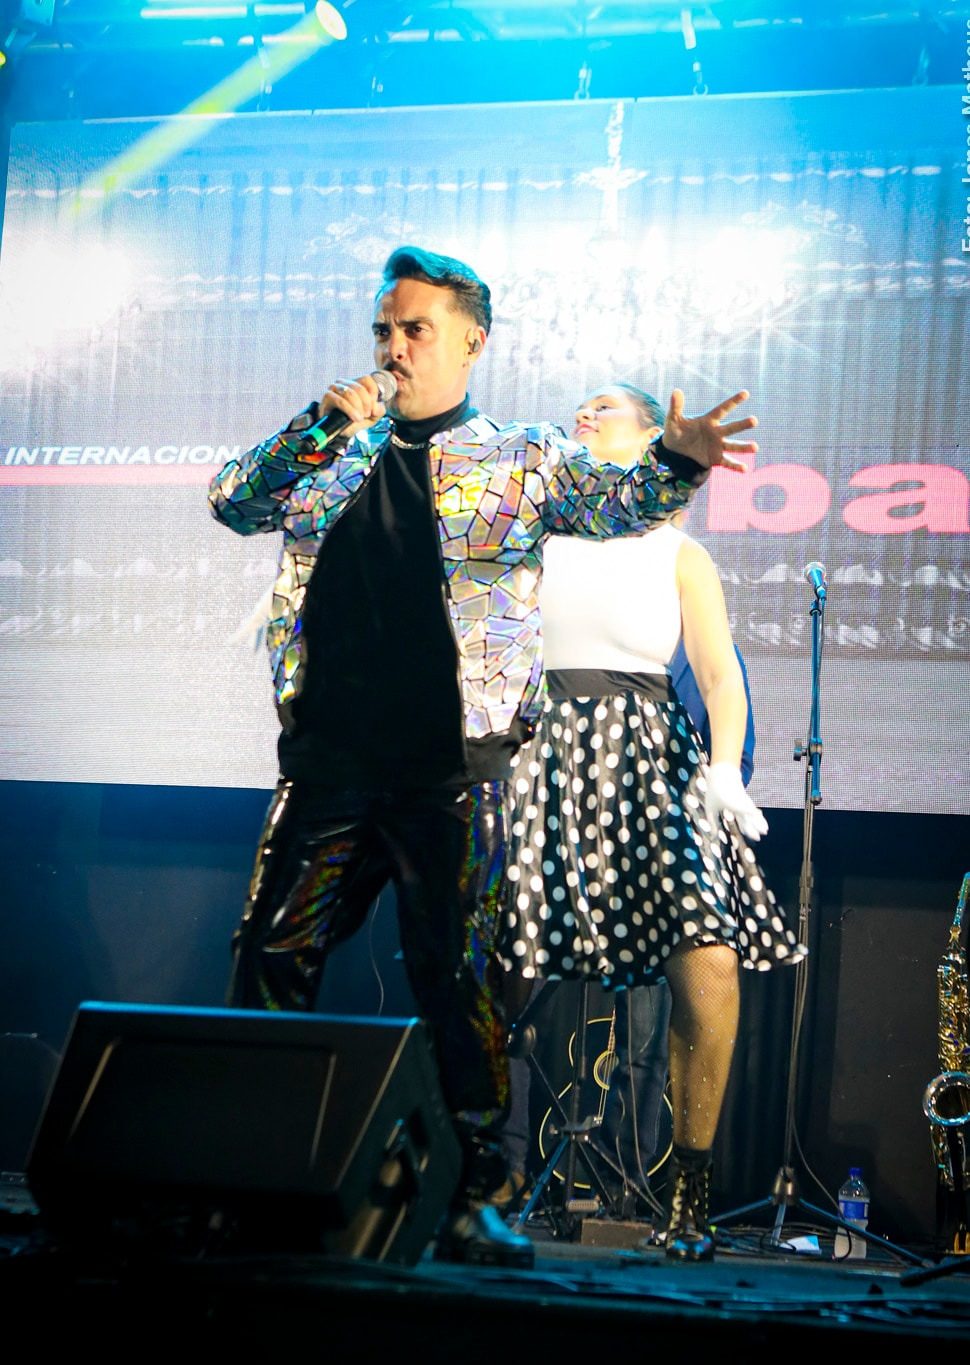
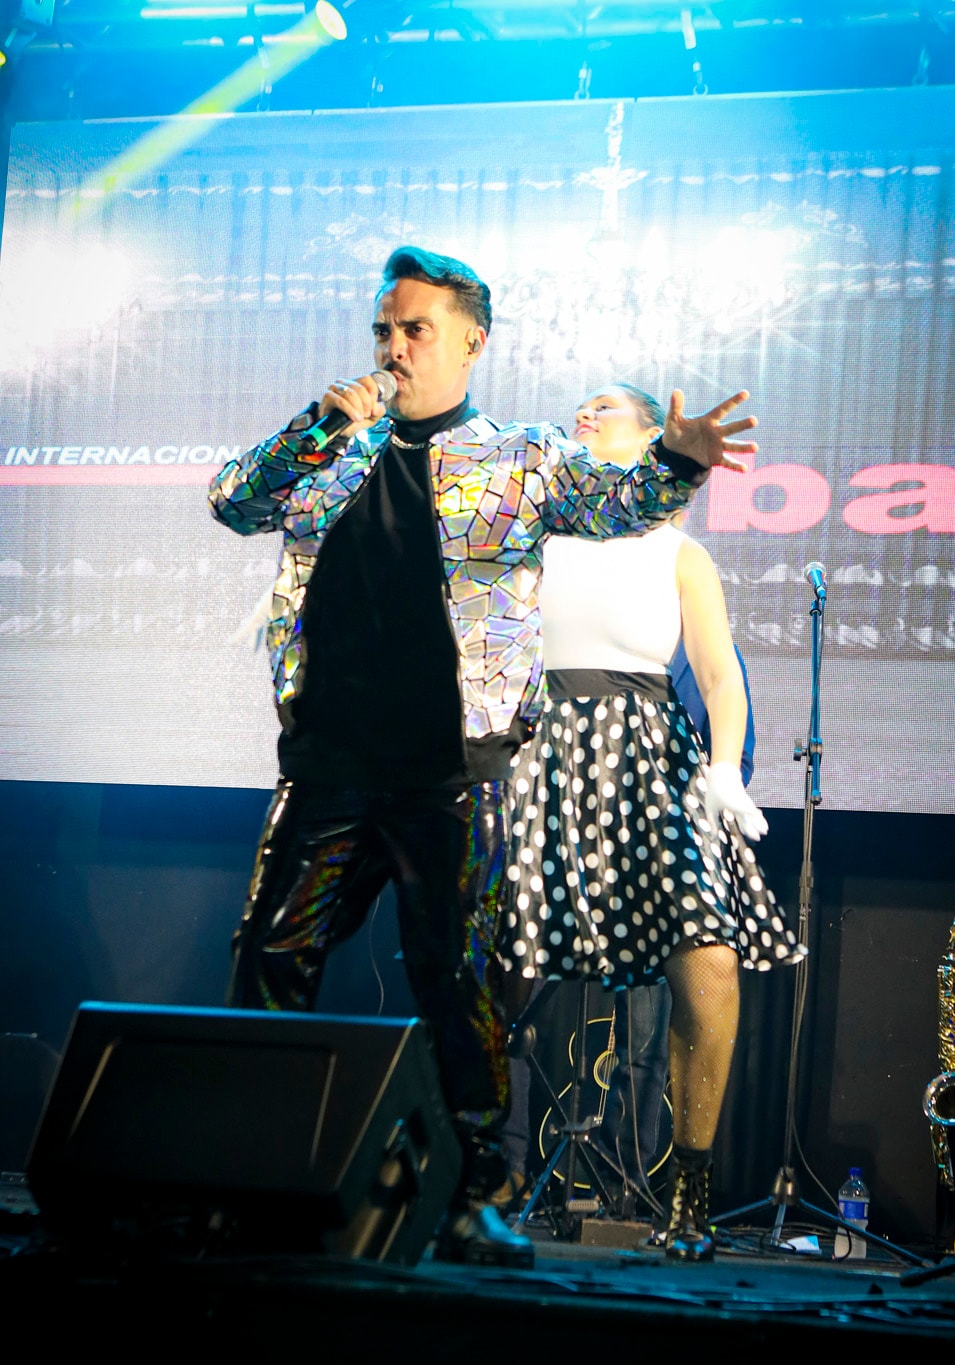
fix(fotos): nada cobre as fotos dos blocos; 15 fotos do Clube Náutico em /palco, sem selo nem crédito cortado
Blocos temáticos da home: a miniatura do figurino e o número do bloco ficavam
por cima da foto de palco e escondiam de 11% a 13% dela. Os dois passam para o
lado do texto, embaixo do quadro; a foto aparece inteira.

/palco ganha as 15 fotos do show no Clube Náutico Araraquara (Jonas Matheus)
que estavam fora do site, distribuídas pelos três atos em fileiras de fotos
inteiras, com o crédito impresso na página. O selo do clube e o crédito
carimbados nos arquivos saem por recorte, medido nos originais: 1465×888 em
paisagem e 955×1365 em retrato. A palco-anos-50, que já estava no site com o
crédito cortado ao meio na borda direita (corte em 970 px), foi refeita.

Regressões:
- media.test fixa o tamanho exato dos 16 arquivos do Náutico (a tolerância de
  2% da proporção não distingue 970 de 955 px);
- o smoke visual passa a reprovar foto coberta por outra e foto que não
  carregou. Antes ele rolava a página sem parar, as imagens sob demanda mais
  abaixo não carregavam e a auditoria as pulava em silêncio: a checagem de
  foto cortada nunca valeu para elas. Agora todas são carregadas antes.

Verificado: typecheck, lint, 197 testes, build, smoke e smoke:motion; o smoke
novo acusa as 6 sobreposições no site publicado e sai limpo neste build.

diff --git a/src/data/media/frames.ts b/src/data/media/frames.ts
@@ -76,6 +76,62 @@ export const stageFrames: StageFrame[] = [
     aspect: '1355/903',
     plate: 2,
   },
+  // Clube Náutico Araraquara (Jonas Matheus): the four voices as the lead of
+  // their own row, then the singers one by one.
+  {
+    id: 'nautico-quatro-vozes',
+    src: images.nauticoQuatroVozes,
+    alt: 'Quatro vocalistas na linha de frente do palco cantando diante do painel de LED',
+    caption: 'Quatro vozes na linha de frente · Cantoras e cantores ao vivo',
+    category: 'vocais',
+    aspect: '1465/888',
+    plate: 3,
+  },
+  {
+    id: 'nautico-voz-feminina',
+    src: images.nauticoVozFeminina,
+    alt: 'Cantora de colete preto cantando ao microfone com a mão erguida diante do painel de LED',
+    caption: 'Voz feminina em primeiro plano · Painel de LED ao fundo',
+    category: 'vocais',
+    aspect: '1465/888',
+    plate: 4,
+  },
+  {
+    id: 'nautico-dois-vocalistas',
+    src: images.nauticoDoisVocalistas,
+    alt: 'Vocalista de jaqueta espelhada e óculos escuros cantando ao microfone, com outro vocalista em primeiro plano',
+    caption: 'Dois vocalistas frente a frente · Energia de palco',
+    category: 'vocais',
+    aspect: '1465/888',
+    plate: 4,
+  },
+  {
+    id: 'nautico-vocalistas-palco',
+    src: images.nauticoVocalistasPalco,
+    alt: 'Vocalista de cabelos longos cantando ao microfone ao lado de vocalista de jaqueta espelhada, sob luz verde',
+    caption: 'Dupla de vocalistas · Frente de palco sob luz verde',
+    category: 'vocais',
+    aspect: '955/1365',
+    plate: 5,
+  },
+  {
+    id: 'nautico-vocal-bandana',
+    src: images.nauticoVocalBandana,
+    alt: 'Vocalista de bandana vermelha e camisa floral cantando ao microfone sob luz verde',
+    caption: 'Rock de bandana · Voz em primeiro plano',
+    category: 'vocais',
+    aspect: '1465/888',
+    plate: 5,
+  },
+  {
+    id: 'nautico-vocal-floral',
+    src: images.nauticoVocalFloral,
+    alt: 'Vocalista de bandana vermelha e casaco floral cantando de braço aberto sob feixes de luz',
+    caption: 'Presença de palco · Clássicos do rock',
+    category: 'vocais',
+    aspect: '955/1365',
+    plate: 5,
+  },
   // ── ATO II · blocos temáticos ──────────────────────────────────────────
   {
     id: 'palco-coracoes',
@@ -119,7 +175,7 @@ export const stageFrames: StageFrame[] = [
     alt: 'Vocalista de jaqueta espelhada e bailarina de saia de poá do bloco anos 50 diante do painel de LED',
     caption: 'Bloco Anos 50 & Retrô · O rock de baile em poá e luvas brancas',
     category: 'blocos',
-    aspect: '970/1365',
+    aspect: '955/1365',
     plate: 2,
   },
   {
@@ -139,6 +195,53 @@ export const stageFrames: StageFrame[] = [
     category: 'blocos',
     aspect: '2560/1707',
     plate: 3,
+  },
+  // Clube Náutico Araraquara (Jonas Matheus): the circus block, then the
+  // dancers on either side of the anos 50 block in full swing.
+  {
+    id: 'nautico-bloco-circo',
+    src: images.nauticoBlocoCirco,
+    alt: 'Vocalista de jaqueta espelhada entre bailarino e bailarina de cartola e casaca vermelha, com fumaça no palco',
+    caption: 'Bloco de circo · Coreografia de cartolas e casacas vermelhas',
+    category: 'blocos',
+    aspect: '1465/888',
+    plate: 4,
+  },
+  {
+    id: 'nautico-circo-frente',
+    src: images.nauticoCircoFrente,
+    alt: 'Vocalista de jaqueta espelhada cantando à frente de bailarinos de cartola e casaca vermelha diante do painel de LED',
+    caption: 'Bloco de circo · Vocal e corpo de baile na frente do palco',
+    category: 'blocos',
+    aspect: '1465/888',
+    plate: 4,
+  },
+  {
+    id: 'nautico-bailarina-circo',
+    src: images.nauticoBailarinaCirco,
+    alt: 'Bailarina de cartola e casaca vermelha sorrindo em cena diante do painel de LED',
+    caption: 'Bailarina do bloco de circo · Cartola e casaca vermelha',
+    category: 'blocos',
+    aspect: '955/1365',
+    plate: 5,
+  },
+  {
+    id: 'nautico-bloco-anos-50',
+    src: images.nauticoBlocoAnos50,
+    alt: 'Vocalista de jaqueta espelhada entre duas bailarinas de saia de poá rodando, com a banda e o painel de LED ao fundo',
+    caption: 'Bloco Anos 50 em cena · Saias de poá em movimento',
+    category: 'blocos',
+    aspect: '1465/888',
+    plate: 5,
+  },
+  {
+    id: 'nautico-bailarino-circo',
+    src: images.nauticoBailarinoCirco,
+    alt: 'Bailarino de cartola e casaca vermelha com as mãos na cintura no palco',
+    caption: 'Bailarino do bloco de circo · Figurino de apresentador',
+    category: 'blocos',
+    aspect: '955/1365',
+    plate: 5,
   },
   // ── ATO III · luz e efeitos ────────────────────────────────────────────
   {
@@ -176,6 +279,44 @@ export const stageFrames: StageFrame[] = [
     category: 'efeitos',
     aspect: '1200/800',
     plate: 2,
+  },
+  // Clube Náutico Araraquara (Jonas Matheus): the panel and the rig from the
+  // floor, then the drums and the keys under the beams.
+  {
+    id: 'nautico-banda-triangulo',
+    src: images.nauticoBandaTriangulo,
+    alt: 'Banda no palco diante do painel de LED com triângulos de luz, vocalistas à frente e teclados e bateria ao fundo',
+    caption: 'Painel de LED em cena · Banda completa e fumaça no palco',
+    category: 'efeitos',
+    aspect: '1465/888',
+    plate: 3,
+  },
+  {
+    id: 'nautico-palco-luzes',
+    src: images.nauticoPalcoLuzes,
+    alt: 'Palco visto da pista com treliças, moving heads em feixes rosa e roxos, painel de LED e a banda em cena',
+    caption: 'Treliças, moving heads e painel de LED · Estrutura completa em operação',
+    category: 'efeitos',
+    aspect: '1465/888',
+    plate: 3,
+  },
+  {
+    id: 'nautico-baterista',
+    src: images.nauticoBaterista,
+    alt: 'Baterista de chapéu e óculos tocando entre os pratos, com o painel de LED ao fundo',
+    caption: 'Bateria ao vivo · O pulso do baile',
+    category: 'efeitos',
+    aspect: '1465/888',
+    plate: 4,
+  },
+  {
+    id: 'nautico-teclado-feixes',
+    src: images.nauticoTecladoFeixes,
+    alt: 'Vocalista de bandana vermelha tocando teclado sob feixes de luz azul e treliças',
+    caption: 'Teclado sob feixes azuis · Iluminação robotizada',
+    category: 'efeitos',
+    aspect: '955/1365',
+    plate: 4,
   },
 ];
 

diff --git a/src/data/blur.ts b/src/data/blur.ts
@@ -57,8 +57,38 @@ export const blurMap: Record<string, string> = {
[1 lines of base64/hex data omitted]
   "/images/nautico-araraquara.jpeg":
[1 lines of base64/hex data omitted]
+  "/images/nautico-bailarina-circo.jpeg":
[1 lines of base64/hex data omitted]
+  "/images/nautico-bailarino-circo.jpeg":
[1 lines of base64/hex data omitted]
+  "/images/nautico-banda-triangulo.jpeg":
[1 lines of base64/hex data omitted]
+  "/images/nautico-baterista.jpeg":
[1 lines of base64/hex data omitted]
+  "/images/nautico-bloco-anos-50.jpeg":
[1 lines of base64/hex data omitted]
+  "/images/nautico-bloco-circo.jpeg":
[1 lines of base64/hex data omitted]
+  "/images/nautico-circo-frente.jpeg":
[1 lines of base64/hex data omitted]
+  "/images/nautico-dois-vocalistas.jpeg":
[1 lines of base64/hex data omitted]
+  "/images/nautico-palco-luzes.jpeg":
[1 lines of base64/hex data omitted]
+  "/images/nautico-quatro-vozes.jpeg":
[1 lines of base64/hex data omitted]
+  "/images/nautico-teclado-feixes.jpeg":
[1 lines of base64/hex data omitted]
+  "/images/nautico-vocal-bandana.jpeg":
[1 lines of base64/hex data omitted]
+  "/images/nautico-vocal-floral.jpeg":
[1 lines of base64/hex data omitted]
+  "/images/nautico-vocalistas-palco.jpeg":
[1 lines of base64/hex data omitted]
+  "/images/nautico-voz-feminina.jpeg":
[1 lines of base64/hex data omitted]
   "/images/palco-anos-50.jpeg":
[2 lines of base64/hex data omitted]
   "/images/palco-anos-70.jpeg":
[1 lines of base64/hex data omitted]
   "/images/palco-asas-led.jpeg":

diff --git a/src/components/home/Blocos.tsx b/src/components/home/Blocos.tsx
@@ -1,7 +1,8 @@
 // src/components/home/Blocos.tsx
 // Block 3 — the thematic blocks as panels on the wall: each photograph
-// resolves out of the dot matrix as it scrolls into view, the wardrobe shot
-// tucked over its corner. On small screens cards stack in a responsive grid so
+// resolves out of the dot matrix as it scrolls into view. The wardrobe shot
+// and the block's number sit beside the text, under the frame: nothing is
+// laid over a photograph. On small screens cards stack in a responsive grid so
 // every photograph stays whole and nothing is cut off horizontally; from md:
 // they sit in a horizontal scroll-snap row with a LED position indicator.
 import type { CSSProperties } from 'react';
@@ -45,28 +46,21 @@ export function Blocos() {
             className="rise flex w-full flex-col gap-5 md:w-auto"
             style={{ '--ratio': ratioOf(bloco.photo.aspect).toFixed(4) } as CSSProperties}
           >
-            <div className="relative">
-              <LedPhoto
-                photo={bloco.photo}
-                sizes="(min-width: 768px) 24rem, 92vw"
-                cols={72}
-              />
+            <LedPhoto photo={bloco.photo} sizes="(min-width: 768px) 24rem, 92vw" cols={72} />
+            <div className="flex items-start gap-4">
+              <div className="min-w-0 flex-1">
+                <span aria-hidden className="label-caps text-led-text">
+                  {String(i + 1).padStart(2, '0')}
+                </span>
+                <h3 className="mt-1 text-2xl font-semibold tracking-tight text-ink">{bloco.title}</h3>
+                <p className="mt-1 text-sm text-ink-muted">{bloco.note}</p>
+                {bloco.figurino && <p className="label-caps mt-3 text-ink-low">{bloco.figurino.caption}</p>}
+              </div>
               {bloco.figurino && (
-                <div className="absolute right-0 -bottom-6 w-[40%] max-w-[11rem] border-[3px] border-surface shadow-[0_18px_40px_-12px_rgba(0,0,0,0.8)] md:-right-3 md:w-[42%] md:max-w-none">
-                  <Photo photo={bloco.figurino} sizes="10rem" />
+                <div className="w-24 shrink-0 md:w-28">
+                  <Photo photo={bloco.figurino} sizes="7rem" />
                 </div>
               )}
-              <span
-                aria-hidden
-                className="label-caps absolute top-3 left-3 bg-surface/80 px-2 py-1 text-led-text backdrop-blur-sm"
-              >
-                {String(i + 1).padStart(2, '0')}
-              </span>
-            </div>
-            <div className="pt-2">
-              <h3 className="text-2xl font-semibold tracking-tight text-ink">{bloco.title}</h3>
-              <p className="mt-1 text-sm text-ink-muted">{bloco.note}</p>
-              {bloco.figurino && <p className="label-caps mt-3 text-ink-low">{bloco.figurino.caption}</p>}
             </div>
           </li>
         ))}

diff --git a/src/data/media/paths.ts b/src/data/media/paths.ts
@@ -21,8 +21,26 @@ export const images = {
   palcoCountryLed: '/images/palco-country-led.jpeg',
   palcoAnos70: '/images/palco-anos-70.jpeg',
   palcoCabare: '/images/palco-cabare.jpeg',
-  // Clube Náutico Araraquara (Jonas Matheus), watermark strip cropped off.
+  // Clube Náutico Araraquara, photographs by Jonas Matheus. The club stamped
+  // its logo over the bottom-right corner and the credit down the right
+  // margin; both are cropped off the files (1465×888 landscape, 955×1365
+  // portrait) and the credit is printed on the page instead.
   palcoAnos50: '/images/palco-anos-50.jpeg',
+  nauticoQuatroVozes: '/images/nautico-quatro-vozes.jpeg',
+  nauticoVozFeminina: '/images/nautico-voz-feminina.jpeg',
+  nauticoDoisVocalistas: '/images/nautico-dois-vocalistas.jpeg',
+  nauticoVocalistasPalco: '/images/nautico-vocalistas-palco.jpeg',
+  nauticoVocalBandana: '/images/nautico-vocal-bandana.jpeg',
+  nauticoVocalFloral: '/images/nautico-vocal-floral.jpeg',
+  nauticoBlocoCirco: '/images/nautico-bloco-circo.jpeg',
+  nauticoCircoFrente: '/images/nautico-circo-frente.jpeg',
+  nauticoBailarinaCirco: '/images/nautico-bailarina-circo.jpeg',
+  nauticoBlocoAnos50: '/images/nautico-bloco-anos-50.jpeg',
+  nauticoBailarinoCirco: '/images/nautico-bailarino-circo.jpeg',
+  nauticoBandaTriangulo: '/images/nautico-banda-triangulo.jpeg',
+  nauticoPalcoLuzes: '/images/nautico-palco-luzes.jpeg',
+  nauticoBaterista: '/images/nautico-baterista.jpeg',
+  nauticoTecladoFeixes: '/images/nautico-teclado-feixes.jpeg',
   // Golden sequin frontman, 2010×2130 camera scan.
   vocalPaete: '/images/vocal-paete-ouro.jpeg',
   // Wardrobe — shot backstage, one per block of the show.

diff --git a/src/data/__tests__/media.test.ts b/src/data/__tests__/media.test.ts
@@ -73,8 +73,8 @@ describe('files', () => {
 });
 
 describe('aspect ratios and resolution', () => {
-  it('stageFrames — 17 frames in three acts, gallery floor', async () => {
-    expect(stageFrames.length).toBe(17);
+  it('stageFrames — 32 frames in three acts, gallery floor', async () => {
+    expect(stageFrames.length).toBe(32);
     for (const frame of stageFrames) {
       const r = await expectAspect(frame.src, frame.aspect, frame.id);
       expect(r.longEdge, `${frame.id} below gallery floor`).toBeGreaterThanOrEqual(GALLERY_MIN_LONG_EDGE);
@@ -125,6 +125,21 @@ describe('aspect ratios and resolution', () => {
     for (const poster of home) {
       const r = await real(poster.src);
       expect(r.longEdge, `${poster.town} below frame floor`).toBeGreaterThanOrEqual(FRAME_MIN_LONG_EDGE);
+    }
+  });
+
+  it('Clube Náutico frames — cropped clear of the club stamp and the credit', async () => {
+    // Measured on the originals: the credit runs down x 1473–1487 (landscape)
+    // or 963–985 (portrait) and the stamp starts at y≈893 or y≈1375. A file
+    // any wider or taller than these two boxes still carries one of them; the
+    // 2% aspect tolerance above cannot tell 970 px from 955.
+    const nautico = Object.entries(images).filter(
+      ([key]) => (key.startsWith('nautico') && key !== 'nauticoAraraquara') || key === 'palcoAnos50',
+    );
+    expect(nautico.length).toBe(16);
+    for (const [key, src] of nautico) {
+      const r = await real(src);
+      expect(['1465x888', '955x1365'], key).toContain(`${r.width}x${r.height}`);
     }
   });
 

diff --git a/src/data/copy/palco.ts b/src/data/copy/palco.ts
@@ -43,6 +43,9 @@ export const palco = {
       note: 'Moving heads e feixes robotizados sincronizados via timecode, painel de LED de alta definição e impacto visual de grande festival.',
     },
   ] satisfies Act[],
+  // The club's stamp and the credit were cropped off those files (see
+  // src/data/media/paths.ts), so the credit is printed here.
+  photoCredit: 'Fotos do show no Clube Náutico Araraquara: Jonas Matheus.',
   figurinos: {
     label: 'Bastidores · Figurinos',
     lead: 'O espetáculo se transforma junto com o repertório: dezenas de trocas completas de figurino, adereços e coreografias exclusivas para transportar o público pelas grandes eras da música.',

diff --git a/src/data/copy/home.ts b/src/data/copy/home.ts
@@ -53,7 +53,7 @@ const blocoItems: Bloco[] = [
       photo: {
         src: images.palcoAnos50,
         alt: 'Vocalista de jaqueta espelhada e bailarina de saia de poá do bloco anos 50 diante do painel de LED',
-        aspect: '970/1365',
+        aspect: '955/1365',
       },
       figurino: {
         src: images.figurinoAnos50,

diff --git a/src/components/palco/Atos.tsx b/src/components/palco/Atos.tsx
@@ -35,6 +35,7 @@ export function Atos() {
           ))}
         </section>
       ))}
+      <p className="-mt-10 text-sm text-ink-low md:-mt-16">{palco.photoCredit}</p>
     </Container>
   );
 }

diff --git a/CLAUDE.md b/CLAUDE.md
@@ -16,7 +16,7 @@ Marketing site + internal quoting tool for **Internacional Freeband**, a Brazili
 - Single test file: `npx vitest run src/lib/__tests__/session.test.ts`
 - `npm run tokens` — **required after editing `src/design/tokens.ts`**; regenerates `src/app/tokens.css` (a test fails when it is stale)
 - `npm run blur` — **required after adding/re-encoding any image**; regenerates `src/data/blur.ts` (a test fails without it)
-- `npm run smoke` — Puppeteer: every route at 1440 and 390, fails on console errors, horizontal overflow, a cropped photograph, the legacy token link not reaching `/orcamento`, the editor's A4 preview collapsing (checked at both widths), a 320px phone scrolling sideways, or the portfolio button not producing a real PDF (run it against `next start` so the production CSP is exercised). Needs a server up; honors `BASE_URL`, `ORCAMENTO_TOKEN`, `PUPPETEER_BROWSER_URL` (attach to a running Chrome), `PUPPETEER_EXECUTABLE_PATH`
+- `npm run smoke` — Puppeteer: every route at 1440 and 390, fails on console errors, horizontal overflow, a photograph that did not load, is cropped or sits under another one, the legacy token link not reaching `/orcamento`, the editor's A4 preview collapsing (checked at both widths), a 320px phone scrolling sideways, or the portfolio button not producing a real PDF (run it against `next start` so the production CSP is exercised). Needs a server up; honors `BASE_URL`, `ORCAMENTO_TOKEN`, `PUPPETEER_BROWSER_URL` (attach to a running Chrome), `PUPPETEER_EXECUTABLE_PATH`
 - `npm run smoke:motion` — Puppeteer with `prefers-reduced-motion: reduce`: asserts no video plays, no CSS animation runs, the LED panel is already lit
 - `npm run optimize:images` — recompress large JPEGs in `public/images`
 
@@ -62,7 +62,7 @@ The `(site)` route group carries the public shell (`SkipLink`, `Nav`, `Footer`);
 
 - **Design tokens** — `src/design/tokens.ts` (colours in oklch, type scale, tracking, easings, radii, layout). `npm run tokens` writes `src/app/tokens.css`, which the Tailwind `@theme` consumes; the PDFs read the TS directly through `src/components/pdf/theme.ts`. `src/design/__tests__/contrast.test.ts` proves every text/background pair clears WCAG AA; `tokens.test.ts` proves the CSS is current.
 - **Copy** — `src/data/band.ts` (identity, line-up, release, timeline, artists, partners), `src/data/packages.ts`, `src/data/contact.ts`, and per-page strings in `src/data/copy/*.ts` (`home`, `palco`, `arquivo`, `historia`, `portfolio` incl. the PDF pages, `admin`, `orcamento` incl. the proposal document and the form's defaults, `site` for nav/footer/SEO). Never hardcode copy in components — `bandInfo.brandLine` is the "Internacional" above the wordmark, `bandLineup.total` the number on stage (`src/data/__tests__/band.test.ts` checks every headline prints it). `releaseShort` in `band.ts` is the band's one-line description reused by the meta description, `/palco` and the release — edit it there only. Copy that counts from today's date (`bandInfo.yearsActive`, the footer's decades) is rendered on the server only; the `(site)` layout sets `revalidate = 86400` so a static build refreshes it, and `Fold` receives the year as a prop rather than reading the browser's clock.
-- **Media** — `src/data/media/paths.ts` registers every image path; `frames.ts` (17 stage frames in three acts, grouped into plates), `figurinos.ts`, `estrutura.ts`, `reels.ts`, `posters.ts` (`home: true` marks the four flyers printed on the home), `hero.ts`. `public/social/` holds marketing exports that nothing on the site references. Every photo declares `aspect` as the file's real `W/H`; `src/data/__tests__/media.test.ts` checks it against disk (±2%), enforces the ≥900px long-edge floor for gallery photos, whitelists `quality` values against `next.config.ts`, and requires a blur entry for everything rendered.
+- **Media** — `src/data/media/paths.ts` registers every image path; `frames.ts` (32 stage frames in three acts, grouped into plates), `figurinos.ts`, `estrutura.ts`, `reels.ts`, `posters.ts` (`home: true` marks the four flyers printed on the home), `hero.ts`. `public/social/` holds marketing exports that nothing on the site references. Every photo declares `aspect` as the file's real `W/H`; `src/data/__tests__/media.test.ts` checks it against disk (±2%), enforces the ≥900px long-edge floor for gallery photos, whitelists `quality` values against `next.config.ts`, and requires a blur entry for everything rendered.
 
 ### Photographs are never cropped
 
